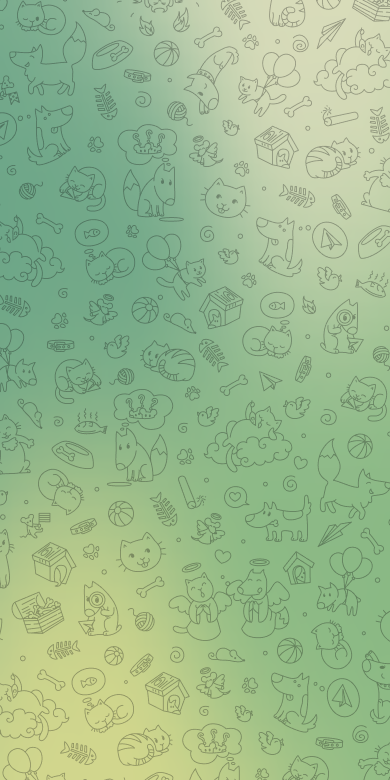
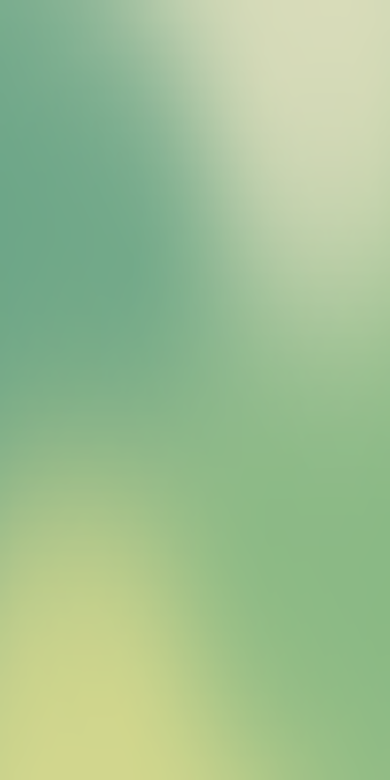
/

diff --git a/index.html b/index.html
@@ -67,6 +67,16 @@
     <!-- End Meta Pixel Code -->
   </head>
   <body class="no_transition">
+    <div class="tgme_background_wrap">
+      <canvas
+        id="tgme_background"
+        class="tgme_background default"
+        width="50"
+        height="50"
+        data-colors="dbddbb,6ba587,d5d88d,88b884"
+      ></canvas>
+      <div class="tgme_background_pattern default"></div>
+    </div>
     <div class="tgme_page_wrap">
       <div class="tgme_head_wrap">
         <div class="tgme_head">

diff --git a/css/telegram.css b/css/telegram.css
@@ -5404,3 +5404,15 @@ i.tl_telegram_share_icon {
   max-width: 600px;
   margin: 0 auto;
 }
+
+/* #tgme_background {
+  display: none !important;
+} */
+
+/* .tgme_background_pattern {
+  background-image: url("/images/Group.png") !important;
+  background-size: cover !important;
+  background-repeat: no-repeat !important;
+  background-position: center center !important;
+  opacity: 1 !important;
+} */
